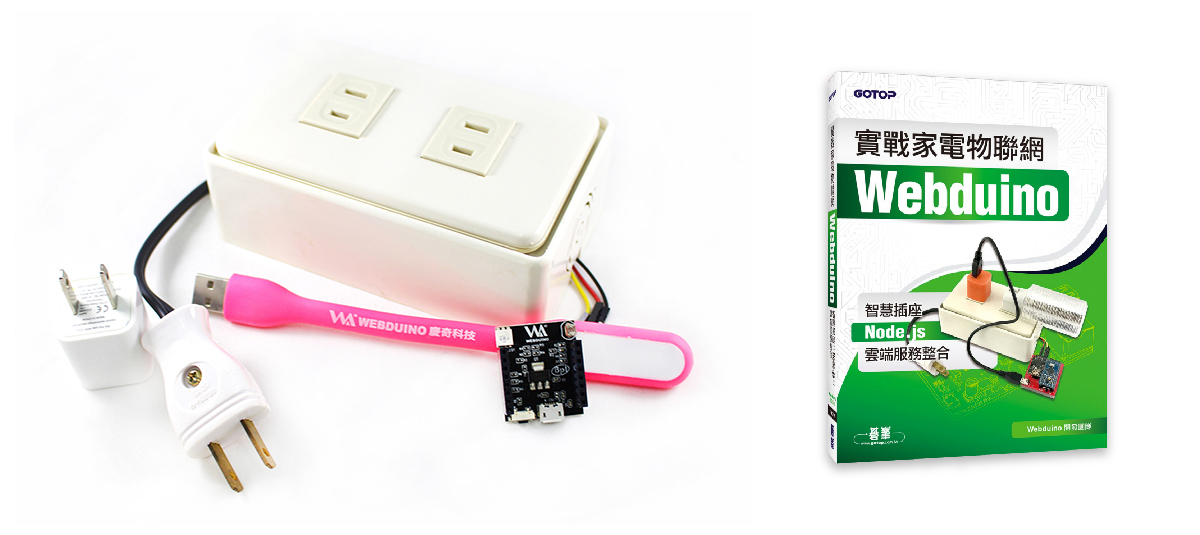
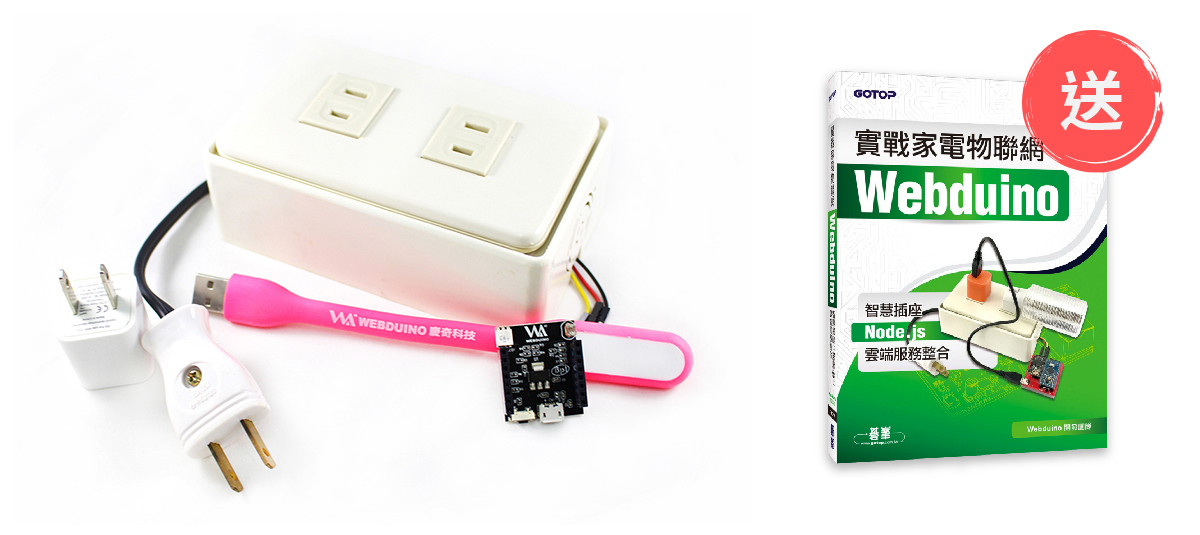
add smart socket promote content

Changed region(s): [[0.8325, 0.0598, 0.9867, 0.329]]

diff --git a/app/buy/webduino-package-SmartSocket2.html b/app/buy/webduino-package-SmartSocket2.html
@@ -9,14 +9,14 @@
   <meta itemprop="name" content="webduino.io">
   <link rel="icon" href="../img/layout/favicon.ico" type="image/x-icon">
 
-  <title>Webduino 智慧插座 - 經濟實惠套件 ( 2017/06/19 ~ 2017/06/30 期間限定 ) - 產品總覽 ::: Webduino = Web × Arduino</title>
+  <title>Webduino 智慧插座 - 經濟實惠套件 ( 即日起 ~ 2017/07/09 期間限定 ) - 產品總覽 ::: Webduino = Web × Arduino</title>
 
   <meta name="description" content="本套件內含兩塊 Webduino 開發板（ 馬克一號、Smart ）與智慧插座套件，透過此套件不僅一次玩轉兩塊開發板，進而學習兩塊板子互動、溝通，當環境光源不足時，智慧插座上的燈泡就亮起來，當溫度過高時，燈泡自動熄滅，亦或是結合雲端服務 ( Google 試算表/ Firebase ) 將智慧插座的狀態記錄下來。真正落實雲端監控、智慧生活，超適合想多方嘗試的你下手搶購哦！">
   <meta itemprop="description" content="本套件內含兩塊 Webduino 開發板（ 馬克一號、Smart ）與智慧插座套件，透過此套件不僅一次玩轉兩塊開發板，進而學習兩塊板子互動、溝通，當環境光源不足時，智慧插座上的燈泡就亮起來，當溫度過高時，燈泡自動熄滅，亦或是結合雲端服務 ( Google 試算表/ Firebase ) 將智慧插座的狀態記錄下來。真正落實雲端監控、智慧生活，超適合想多方嘗試的你下手搶購哦！">
   <meta property="og:description" content="本套件內含兩塊 Webduino 開發板（ 馬克一號、Smart ）與智慧插座套件，透過此套件不僅一次玩轉兩塊開發板，進而學習兩塊板子互動、溝通，當環境光源不足時，智慧插座上的燈泡就亮起來，當溫度過高時，燈泡自動熄滅，亦或是結合雲端服務 ( Google 試算表/ Firebase ) 將智慧插座的狀態記錄下來。真正落實雲端監控、智慧生活，超適合想多方嘗試的你下手搶購哦！">
 
 
-  <meta property="og:title" content="Webduino 智慧插座 - 經濟實惠套件 ( 2017/06/19 ~ 2017/06/30 期間限定 )" >
+  <meta property="og:title" content="Webduino 智慧插座 - 經濟實惠套件 ( 即日起 ~ 2017/07/09 期間限定 )" >
   <meta property="og:url" content="https://webduino.io/buy/webduino-smartSocket2-01s.html">
 
   <meta property="og:image" content="https://webduino.io/img/buy/webduino-smartSocket2-fb.jpg">
@@ -79,7 +79,7 @@
       <span><img src="../img/buy/webduino-xmas-icon-2.png" style="margin-bottom:-4px; margin-left:3px; margin-right:2px;"> 所有商品 4/30 限時特惠中：<a href="../buy.html"> 看看有哪些好康優惠</a></span> 
     </div> -->
     <br/>
-    <h1>Webduino 智慧插座 - 經濟實惠套件 ( 2017/06/19 ~ 2017/06/30 期間限定 )</h1>
+    <h1>Webduino 智慧插座 - 經濟實惠套件 ( 即日起 ~ 2017/07/09 期間限定 )</h1>
     <p>本套件內含兩塊 Webduino 開發板（ 馬克一號、Smart ）與智慧插座套件，透過此套件不僅一次玩轉兩塊開發板，進而學習兩塊板子互動、溝通，當環境光源不足時，智慧插座上的燈泡就亮起來，當溫度過高時，燈泡自動熄滅，亦或是結合雲端服務 ( Google 試算表/ Firebase ) 將智慧插座的狀態記錄下來。真正落實雲端監控、智慧生活，超適合想多方嘗試的你下手搶購哦！</p>
     <br/>
     <h2>產品特色：</h2>
@@ -94,11 +94,11 @@
     </ul>
     <br/>
     <h2>售價：</h2>
-    <p><strong>新台幣 1680 元整</strong> ( 限量 20 組，預購期限至 2017.06.30 )</p>
+    <p><strong>新台幣 1680 元整</strong> ( 限量 20 組，預購期限至 2017.07.09 )</p>
     <div class="ruten" style="margin-bottom:40px;">
       <a href="" target="_blank"> <i class="fa fa-shopping-cart"></i> 立刻預購 ( 碁峰購物網 )</a>
     </div>
-    <p>此預購活動為碁峰獨家組合，<strong>買就送「實戰家電物聯網」書 x1</strong>，詳情可參考「碁峰購物網」活動頁面並下單購買，產品將於 2017.07.20 開始出貨。歡迎政府機關、教育單位或公司行號採購，如需統一編號，可於訂單備註中說明。</p>
+    <p>此預購活動為碁峰獨家組合，<strong>買就送「實戰家電物聯網」書 x1</strong>，詳情可參考「碁峰購物網」活動頁面並下單購買，產品將於 2017.07.10 陸續出貨。歡迎政府機關、教育單位或公司行號採購，如需統一編號，可於訂單備註中說明。</p>
     <h2>產品內容：</h2>
     <ul>
       <li>1. Webduino Smart x1 </li>

diff --git a/app/buy/webduino-package-SmartSocket3.html b/app/buy/webduino-package-SmartSocket3.html
@@ -9,14 +9,14 @@
   <meta itemprop="name" content="webduino.io">
   <link rel="icon" href="../img/layout/favicon.ico" type="image/x-icon">
 
-  <title>Webduino 智慧插座 - 實戰開發套件 ( 2017/06/19 ~ 2017/06/30 期間限定 ) - 產品總覽 ::: Webduino = Web × Arduino</title>
+  <title>Webduino 智慧插座 - 實戰開發套件 ( 即日起 ~ 2017/07/09 期間限定 ) - 產品總覽 ::: Webduino = Web × Arduino</title>
 
   <meta name="description" content="本套件為實戰智慧插座最完整的套件！內含三塊 Webduino 開發板（ 馬克一號、FLY+UNO、Smart ）、智慧插座與擴充套件，搭配「實戰家電物聯網」一書，數十種插座神奇控制法都能一一實現。擁有它，不僅學會智慧插座基本控制，還能搭配網頁前後端，立即掌握智慧插座完整的開發歷程，實現做中學，學中樂的真諦！真正喚起你的創客魂！">
   <meta itemprop="description" content="本套件為實戰智慧插座最完整的套件！內含三塊 Webduino 開發板（ 馬克一號、FLY+UNO、Smart ）、智慧插座與擴充套件，搭配「實戰家電物聯網」一書，數十種插座神奇控制法都能一一實現。擁有它，不僅學會智慧插座基本控制，還能搭配網頁前後端，立即掌握智慧插座完整的開發歷程，實現做中學，學中樂的真諦！真正喚起你的創客魂！">
   <meta property="og:description" content="本套件為實戰智慧插座最完整的套件！內含三塊 Webduino 開發板（ 馬克一號、FLY+UNO、Smart ）、智慧插座與擴充套件，搭配「實戰家電物聯網」一書，數十種插座神奇控制法都能一一實現。擁有它，不僅學會智慧插座基本控制，還能搭配網頁前後端，立即掌握智慧插座完整的開發歷程，實現做中學，學中樂的真諦！真正喚起你的創客魂！">
 
 
-  <meta property="og:title" content="Webduino 智慧插座 - 實戰開發套件 ( 2017/06/19 ~ 2017/06/30 期間限定 )" >
+  <meta property="og:title" content="Webduino 智慧插座 - 實戰開發套件 ( 即日起 ~ 2017/07/09 期間限定 )" >
   <meta property="og:url" content="https://webduino.io/buy/webduino-smartSocket3-01s.html">
 
   <meta property="og:image" content="https://webduino.io/img/buy/webduino-smartSocket3-fb.jpg">
@@ -79,7 +79,7 @@
       <span><img src="../img/buy/webduino-xmas-icon-2.png" style="margin-bottom:-4px; margin-left:3px; margin-right:2px;"> 所有商品 4/30 限時特惠中：<a href="../buy.html"> 看看有哪些好康優惠</a></span> 
     </div> -->
     <br/>
-    <h1>Webduino 智慧插座 - 實戰開發套件 ( 2017/06/19 ~ 2017/06/30 期間限定 )</h1>
+    <h1>Webduino 智慧插座 - 實戰開發套件 ( 即日起 ~ 2017/07/09 期間限定 )</h1>
     <p>本套件為實戰智慧插座最完整的套件！內含三塊 Webduino 開發板（ 馬克一號、FLY+UNO、Smart ）、智慧插座與擴充套件，搭配「實戰家電物聯網」一書，數十種插座神奇控制法都能一一實現。擁有它，不僅學會智慧插座基本控制，還能搭配網頁前後端，立即掌握智慧插座完整的開發歷程，實現做中學，學中樂的真諦！真正喚起你的創客魂！</p>
     <br/>
     <h2>產品特色：</h2>
@@ -95,11 +95,11 @@
     </ul>
     <br/>
     <h2>售價：</h2>
-    <p><strong>新台幣 3360 元整</strong> ( 限量 30 組，預購期限至 2017.06.30 )</p>
+    <p><strong>新台幣 3360 元整</strong> ( 限量 30 組，預購期限至 2017.07.09 )</p>
     <div class="ruten" style="margin-bottom:40px;">
       <a href="" target="_blank"> <i class="fa fa-shopping-cart"></i> 立刻預購 ( 碁峰購物網 )</a>
     </div>
-    <p>此預購活動為碁峰獨家組合，<strong>買就送「實戰家電物聯網」書 x1</strong>，詳情可參考「碁峰購物網」活動頁面並下單購買，產品將於 2017.07.20 開始出貨。歡迎政府機關、教育單位或公司行號採購，如需統一編號，可於訂單備註中說明。</p>
+    <p>此預購活動為碁峰獨家組合，<strong>買就送「實戰家電物聯網」書 x1</strong>，詳情可參考「碁峰購物網」活動頁面並下單購買，產品將於 2017.07.10 陸續出貨。歡迎政府機關、教育單位或公司行號採購，如需統一編號，可於訂單備註中說明。</p>
     <h2>產品內容：</h2>
     <p><strong>開發版：<br></strong><br></p>
     <ul>

diff --git a/app/_buy-content/webduino-package-SmartSocket2.html b/app/_buy-content/webduino-package-SmartSocket2.html
@@ -1,14 +1,14 @@
 <!-- @@master  = ../_layout.html-->
 
 <!-- @@block  =  meta-->
-  <title>Webduino 智慧插座 - 經濟實惠套件 ( 2017/06/19 ~ 2017/06/30 期間限定 ) - 產品總覽 ::: Webduino = Web × Arduino</title>
+  <title>Webduino 智慧插座 - 經濟實惠套件 ( 即日起 ~ 2017/07/09 期間限定 ) - 產品總覽 ::: Webduino = Web × Arduino</title>
 
   <meta name="description" content="本套件內含兩塊 Webduino 開發板（ 馬克一號、Smart ）與智慧插座套件，透過此套件不僅一次玩轉兩塊開發板，進而學習兩塊板子互動、溝通，當環境光源不足時，智慧插座上的燈泡就亮起來，當溫度過高時，燈泡自動熄滅，亦或是結合雲端服務 ( Google 試算表/ Firebase ) 將智慧插座的狀態記錄下來。真正落實雲端監控、智慧生活，超適合想多方嘗試的你下手搶購哦！">
   <meta itemprop="description" content="本套件內含兩塊 Webduino 開發板（ 馬克一號、Smart ）與智慧插座套件，透過此套件不僅一次玩轉兩塊開發板，進而學習兩塊板子互動、溝通，當環境光源不足時，智慧插座上的燈泡就亮起來，當溫度過高時，燈泡自動熄滅，亦或是結合雲端服務 ( Google 試算表/ Firebase ) 將智慧插座的狀態記錄下來。真正落實雲端監控、智慧生活，超適合想多方嘗試的你下手搶購哦！">
   <meta property="og:description" content="本套件內含兩塊 Webduino 開發板（ 馬克一號、Smart ）與智慧插座套件，透過此套件不僅一次玩轉兩塊開發板，進而學習兩塊板子互動、溝通，當環境光源不足時，智慧插座上的燈泡就亮起來，當溫度過高時，燈泡自動熄滅，亦或是結合雲端服務 ( Google 試算表/ Firebase ) 將智慧插座的狀態記錄下來。真正落實雲端監控、智慧生活，超適合想多方嘗試的你下手搶購哦！">
 
 
-  <meta property="og:title" content="Webduino 智慧插座 - 經濟實惠套件 ( 2017/06/19 ~ 2017/06/30 期間限定 )" >
+  <meta property="og:title" content="Webduino 智慧插座 - 經濟實惠套件 ( 即日起 ~ 2017/07/09 期間限定 )" >
   <meta property="og:url" content="https://webduino.io/buy/webduino-smartSocket2-01s.html">
 
   <meta property="og:image" content="https://webduino.io/img/buy/webduino-smartSocket2-fb.jpg">
@@ -30,7 +30,7 @@
   </div>  
   <div class="content">
     <include src="_promote.html"></include>
-    <h1>Webduino 智慧插座 - 經濟實惠套件 ( 2017/06/19 ~ 2017/06/30 期間限定 )</h1>
+    <h1>Webduino 智慧插座 - 經濟實惠套件 ( 即日起 ~ 2017/07/09 期間限定 )</h1>
     <p>本套件內含兩塊 Webduino 開發板（ 馬克一號、Smart ）與智慧插座套件，透過此套件不僅一次玩轉兩塊開發板，進而學習兩塊板子互動、溝通，當環境光源不足時，智慧插座上的燈泡就亮起來，當溫度過高時，燈泡自動熄滅，亦或是結合雲端服務 ( Google 試算表/ Firebase ) 將智慧插座的狀態記錄下來。真正落實雲端監控、智慧生活，超適合想多方嘗試的你下手搶購哦！</p>
     <br/>
     <h2>產品特色：</h2>
@@ -45,11 +45,11 @@
     </ul>
     <br/>
     <h2>售價：</h2>
-    <p><strong>新台幣 1680 元整</strong> ( 限量 20 組，預購期限至 2017.06.30 )</p>
+    <p><strong>新台幣 1680 元整</strong> ( 限量 20 組，預購期限至 2017.07.09 )</p>
     <div class="ruten" style="margin-bottom:40px;">
       <a href="" target="_blank"> <i class="fa fa-shopping-cart"></i> 立刻預購 ( 碁峰購物網 )</a>
     </div>
-    <p>此預購活動為碁峰獨家組合，<strong>買就送「實戰家電物聯網」書 x1</strong>，詳情可參考「碁峰購物網」活動頁面並下單購買，產品將於 2017.07.20 開始出貨。歡迎政府機關、教育單位或公司行號採購，如需統一編號，可於訂單備註中說明。</p>
+    <p>此預購活動為碁峰獨家組合，<strong>買就送「實戰家電物聯網」書 x1</strong>，詳情可參考「碁峰購物網」活動頁面並下單購買，產品將於 2017.07.10 陸續出貨。歡迎政府機關、教育單位或公司行號採購，如需統一編號，可於訂單備註中說明。</p>
     <h2>產品內容：</h2>
     <ul>
       <li>1. Webduino Smart x1 </li>

diff --git a/app/buy/webduino-package-SmartSocket1.html b/app/buy/webduino-package-SmartSocket1.html
@@ -9,14 +9,14 @@
   <meta itemprop="name" content="webduino.io">
   <link rel="icon" href="../img/layout/favicon.ico" type="image/x-icon">
 
-  <title>Webduino 智慧插座 - 嚐鮮體驗套件 ( 2017/06/19 ~ 2017/06/30 期間限定 ) - 產品總覽 ::: Webduino = Web × Arduino</title>
+  <title>Webduino 智慧插座 - 嚐鮮體驗套件 ( 即日起 ~ 2017/07/09 期間限定 ) - 產品總覽 ::: Webduino = Web × Arduino</title>
 
   <meta name="description" content="想讓智慧插座更聰明？選此套件就對拉！本套件由 Webduino Smart 和 智慧插座套件組合而成！透過 Smart 開發板控制插座，讓插座也能隔空被控制！整體造型可愛、精美，為 Webduino 智慧插座最輕巧的組合套件。超適合「想入門體驗」、「學生族群」嚐鮮把玩哦！一起學習動手組裝、改造居家環境吧！">
   <meta itemprop="description" content="想讓智慧插座更聰明？選此套件就對拉！本套件由 Webduino Smart 和 智慧插座套件組合而成！透過 Smart 開發板控制插座，讓插座也能隔空被控制！整體造型可愛、精美，為 Webduino 智慧插座最輕巧的組合套件。超適合「想入門體驗」、「學生族群」嚐鮮把玩哦！一起學習動手組裝、改造居家環境吧！">
   <meta property="og:description" content="想讓智慧插座更聰明？選此套件就對拉！本套件由 Webduino Smart 和 智慧插座套件組合而成！透過 Smart 開發板控制插座，讓插座也能隔空被控制！整體造型可愛、精美，為 Webduino 智慧插座最輕巧的組合套件。超適合「想入門體驗」、「學生族群」嚐鮮把玩哦！一起學習動手組裝、改造居家環境吧！">
 
 
-  <meta property="og:title" content="Webduino 智慧插座 - 嚐鮮體驗套件 ( 2017/06/19 ~ 2017/06/30 期間限定 )" >
+  <meta property="og:title" content="Webduino 智慧插座 - 嚐鮮體驗套件 ( 即日起 ~ 2017/07/09 期間限定 )" >
   <meta property="og:url" content="https://webduino.io/buy/webduino-smartSocket1-01s.html">
 
   <meta property="og:image" content="https://webduino.io/img/buy/webduino-smartSocket1-fb.jpg">
@@ -79,7 +79,7 @@
       <span><img src="../img/buy/webduino-xmas-icon-2.png" style="margin-bottom:-4px; margin-left:3px; margin-right:2px;"> 所有商品 4/30 限時特惠中：<a href="../buy.html"> 看看有哪些好康優惠</a></span> 
     </div> -->
     <br/>
-    <h1>Webduino 智慧插座 - 嚐鮮體驗套件 ( 2017/06/19 ~ 2017/06/30 期間限定 )</h1>
+    <h1>Webduino 智慧插座 - 嚐鮮體驗套件 ( 即日起 ~ 2017/07/09 期間限定 )</h1>
     <p>想讓智慧插座更聰明？選此套件就對拉！本套件由 <strong>Webduino Smart</strong> 和 <strong>智慧插座套件</strong> 組合而成！透過 Smart 開發板控制插座，讓插座也能隔空被控制！整體造型可愛、精美，為 Webduino 智慧插座最輕巧的組合套件。超適合「想入門體驗」、「學生族群」嚐鮮把玩哦！一起學習動手組裝、改造居家環境吧！</p>
     <br/>
     <h2>產品特色：</h2>
@@ -93,11 +93,11 @@
     </ul>
     <br/>
     <h2>售價：</h2>
-    <p><strong>新台幣 998 元整</strong> ( 限量 20 組，預購期限至 2017.06.30 )</p>
+    <p><strong>新台幣 998 元整</strong> ( 限量 20 組，預購期限至 2017.07.09 )</p>
     <div class="ruten" style="margin-bottom:40px;">
       <a href="" target="_blank"> <i class="fa fa-shopping-cart"></i> 立刻預購 ( 碁峰購物網 )</a>
     </div>
-    <p>此預購活動為碁峰獨家組合，<strong>買就送「實戰家電物聯網」書 x1</strong>，詳情可參考「碁峰購物網」活動頁面並下單購買，產品將於 2017.07.20 開始出貨。歡迎政府機關、教育單位或公司行號採購，如需統一編號，可於訂單備註中說明。</p>
+    <p>此預購活動為碁峰獨家組合，<strong>買就送「實戰家電物聯網」書 x1</strong>，詳情可參考「碁峰購物網」活動頁面並下單購買，產品將於 2017.07.10 陸續出貨。歡迎政府機關、教育單位或公司行號採購，如需統一編號，可於訂單備註中說明。</p>
     <h2>產品內容：</h2>
     <ul>
       <li>1. Webduino Smart x1 </li>

diff --git a/app/_buy-content/webduino-package-SmartSocket3.html b/app/_buy-content/webduino-package-SmartSocket3.html
@@ -1,14 +1,14 @@
 <!-- @@master  = ../_layout.html-->
 
 <!-- @@block  =  meta-->
-  <title>Webduino 智慧插座 - 實戰開發套件 ( 2017/06/19 ~ 2017/06/30 期間限定 ) - 產品總覽 ::: Webduino = Web × Arduino</title>
+  <title>Webduino 智慧插座 - 實戰開發套件 ( 即日起 ~ 2017/07/09 期間限定 ) - 產品總覽 ::: Webduino = Web × Arduino</title>
 
   <meta name="description" content="本套件為實戰智慧插座最完整的套件！內含三塊 Webduino 開發板（ 馬克一號、FLY+UNO、Smart ）、智慧插座與擴充套件，搭配「實戰家電物聯網」一書，數十種插座神奇控制法都能一一實現。擁有它，不僅學會智慧插座基本控制，還能搭配網頁前後端，立即掌握智慧插座完整的開發歷程，實現做中學，學中樂的真諦！真正喚起你的創客魂！">
   <meta itemprop="description" content="本套件為實戰智慧插座最完整的套件！內含三塊 Webduino 開發板（ 馬克一號、FLY+UNO、Smart ）、智慧插座與擴充套件，搭配「實戰家電物聯網」一書，數十種插座神奇控制法都能一一實現。擁有它，不僅學會智慧插座基本控制，還能搭配網頁前後端，立即掌握智慧插座完整的開發歷程，實現做中學，學中樂的真諦！真正喚起你的創客魂！">
   <meta property="og:description" content="本套件為實戰智慧插座最完整的套件！內含三塊 Webduino 開發板（ 馬克一號、FLY+UNO、Smart ）、智慧插座與擴充套件，搭配「實戰家電物聯網」一書，數十種插座神奇控制法都能一一實現。擁有它，不僅學會智慧插座基本控制，還能搭配網頁前後端，立即掌握智慧插座完整的開發歷程，實現做中學，學中樂的真諦！真正喚起你的創客魂！">
 
 
-  <meta property="og:title" content="Webduino 智慧插座 - 實戰開發套件 ( 2017/06/19 ~ 2017/06/30 期間限定 )" >
+  <meta property="og:title" content="Webduino 智慧插座 - 實戰開發套件 ( 即日起 ~ 2017/07/09 期間限定 )" >
   <meta property="og:url" content="https://webduino.io/buy/webduino-smartSocket3-01s.html">
 
   <meta property="og:image" content="https://webduino.io/img/buy/webduino-smartSocket3-fb.jpg">
@@ -30,7 +30,7 @@
   </div>  
   <div class="content">
     <include src="_promote.html"></include>
-    <h1>Webduino 智慧插座 - 實戰開發套件 ( 2017/06/19 ~ 2017/06/30 期間限定 )</h1>
+    <h1>Webduino 智慧插座 - 實戰開發套件 ( 即日起 ~ 2017/07/09 期間限定 )</h1>
     <p>本套件為實戰智慧插座最完整的套件！內含三塊 Webduino 開發板（ 馬克一號、FLY+UNO、Smart ）、智慧插座與擴充套件，搭配「實戰家電物聯網」一書，數十種插座神奇控制法都能一一實現。擁有它，不僅學會智慧插座基本控制，還能搭配網頁前後端，立即掌握智慧插座完整的開發歷程，實現做中學，學中樂的真諦！真正喚起你的創客魂！</p>
     <br/>
     <h2>產品特色：</h2>
@@ -46,11 +46,11 @@
     </ul>
     <br/>
     <h2>售價：</h2>
-    <p><strong>新台幣 3360 元整</strong> ( 限量 30 組，預購期限至 2017.06.30 )</p>
+    <p><strong>新台幣 3360 元整</strong> ( 限量 30 組，預購期限至 2017.07.09 )</p>
     <div class="ruten" style="margin-bottom:40px;">
       <a href="" target="_blank"> <i class="fa fa-shopping-cart"></i> 立刻預購 ( 碁峰購物網 )</a>
     </div>
-    <p>此預購活動為碁峰獨家組合，<strong>買就送「實戰家電物聯網」書 x1</strong>，詳情可參考「碁峰購物網」活動頁面並下單購買，產品將於 2017.07.20 開始出貨。歡迎政府機關、教育單位或公司行號採購，如需統一編號，可於訂單備註中說明。</p>
+    <p>此預購活動為碁峰獨家組合，<strong>買就送「實戰家電物聯網」書 x1</strong>，詳情可參考「碁峰購物網」活動頁面並下單購買，產品將於 2017.07.10 陸續出貨。歡迎政府機關、教育單位或公司行號採購，如需統一編號，可於訂單備註中說明。</p>
     <h2>產品內容：</h2>
     <p><strong>開發版：<br></strong><br></p>
     <ul>

diff --git a/app/_buy-content/webduino-package-SmartSocket1.html b/app/_buy-content/webduino-package-SmartSocket1.html
@@ -1,14 +1,14 @@
 <!-- @@master  = ../_layout.html-->
 
 <!-- @@block  =  meta-->
-  <title>Webduino 智慧插座 - 嚐鮮體驗套件 ( 2017/06/19 ~ 2017/06/30 期間限定 ) - 產品總覽 ::: Webduino = Web × Arduino</title>
+  <title>Webduino 智慧插座 - 嚐鮮體驗套件 ( 即日起 ~ 2017/07/09 期間限定 ) - 產品總覽 ::: Webduino = Web × Arduino</title>
 
   <meta name="description" content="想讓智慧插座更聰明？選此套件就對拉！本套件由 Webduino Smart 和 智慧插座套件組合而成！透過 Smart 開發板控制插座，讓插座也能隔空被控制！整體造型可愛、精美，為 Webduino 智慧插座最輕巧的組合套件。超適合「想入門體驗」、「學生族群」嚐鮮把玩哦！一起學習動手組裝、改造居家環境吧！">
   <meta itemprop="description" content="想讓智慧插座更聰明？選此套件就對拉！本套件由 Webduino Smart 和 智慧插座套件組合而成！透過 Smart 開發板控制插座，讓插座也能隔空被控制！整體造型可愛、精美，為 Webduino 智慧插座最輕巧的組合套件。超適合「想入門體驗」、「學生族群」嚐鮮把玩哦！一起學習動手組裝、改造居家環境吧！">
   <meta property="og:description" content="想讓智慧插座更聰明？選此套件就對拉！本套件由 Webduino Smart 和 智慧插座套件組合而成！透過 Smart 開發板控制插座，讓插座也能隔空被控制！整體造型可愛、精美，為 Webduino 智慧插座最輕巧的組合套件。超適合「想入門體驗」、「學生族群」嚐鮮把玩哦！一起學習動手組裝、改造居家環境吧！">
 
 
-  <meta property="og:title" content="Webduino 智慧插座 - 嚐鮮體驗套件 ( 2017/06/19 ~ 2017/06/30 期間限定 )" >
+  <meta property="og:title" content="Webduino 智慧插座 - 嚐鮮體驗套件 ( 即日起 ~ 2017/07/09 期間限定 )" >
   <meta property="og:url" content="https://webduino.io/buy/webduino-smartSocket1-01s.html">
 
   <meta property="og:image" content="https://webduino.io/img/buy/webduino-smartSocket1-fb.jpg">
@@ -30,7 +30,7 @@
   </div>  
   <div class="content">
     <include src="_promote.html"></include>
-    <h1>Webduino 智慧插座 - 嚐鮮體驗套件 ( 2017/06/19 ~ 2017/06/30 期間限定 )</h1>
+    <h1>Webduino 智慧插座 - 嚐鮮體驗套件 ( 即日起 ~ 2017/07/09 期間限定 )</h1>
     <p>想讓智慧插座更聰明？選此套件就對拉！本套件由 <strong>Webduino Smart</strong> 和 <strong>智慧插座套件</strong> 組合而成！透過 Smart 開發板控制插座，讓插座也能隔空被控制！整體造型可愛、精美，為 Webduino 智慧插座最輕巧的組合套件。超適合「想入門體驗」、「學生族群」嚐鮮把玩哦！一起學習動手組裝、改造居家環境吧！</p>
     <br/>
     <h2>產品特色：</h2>
@@ -44,11 +44,11 @@
     </ul>
     <br/>
     <h2>售價：</h2>
-    <p><strong>新台幣 998 元整</strong> ( 限量 20 組，預購期限至 2017.06.30 )</p>
+    <p><strong>新台幣 998 元整</strong> ( 限量 20 組，預購期限至 2017.07.09 )</p>
     <div class="ruten" style="margin-bottom:40px;">
       <a href="" target="_blank"> <i class="fa fa-shopping-cart"></i> 立刻預購 ( 碁峰購物網 )</a>
     </div>
-    <p>此預購活動為碁峰獨家組合，<strong>買就送「實戰家電物聯網」書 x1</strong>，詳情可參考「碁峰購物網」活動頁面並下單購買，產品將於 2017.07.20 開始出貨。歡迎政府機關、教育單位或公司行號採購，如需統一編號，可於訂單備註中說明。</p>
+    <p>此預購活動為碁峰獨家組合，<strong>買就送「實戰家電物聯網」書 x1</strong>，詳情可參考「碁峰購物網」活動頁面並下單購買，產品將於 2017.07.10 陸續出貨。歡迎政府機關、教育單位或公司行號採購，如需統一編號，可於訂單備註中說明。</p>
     <h2>產品內容：</h2>
     <ul>
       <li>1. Webduino Smart x1 </li>
